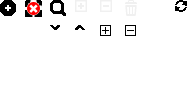
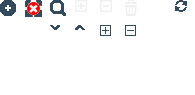
更换主题色调

diff --git a/Public/Admin/css/blackcolor.css b/Public/Admin/css/blackcolor.css
@@ -1,26 +1,26 @@
 body{background:#fff;}
 /***顶部样式***/
 .logo{ color:#666;}
-.header{border-top:4px solid #27282d;border-left:4px solid #27282d;}
-.mainnav li a:hover,.tool li a:hover{border-bottom:solid 4px #27282d;color:#000;}
-.mainnav li a.hover{border-bottom:solid 4px #27282d;color:#27282d;}
+.header{border-top:4px solid #324b5e;border-left:4px solid #324b5e;}
+.mainnav li a:hover,.tool li a:hover{border-bottom:solid 4px #324b5e;color:#000;}
+.mainnav li a.hover{border-bottom:solid 4px #324b5e;color:#324b5e;}
 .tab .tabnav.hover  a{
-border-color: #27282d #e0e0e0 #f6f6f6;
+border-color: #324b5e #e0e0e0 #f6f6f6;
 }
 /******左边样式*****/
-.left{border-left: 4px solid #27282d;}
+.left{border-left: 4px solid #324b5e;}
 .menu .mt a:hover,.menu .mitem a:hover{background:#ededed;}
-.menu .mt a.hover,.menu .mitem a.hover{background:#27282d;color:#fff;}
+.menu .mt a.hover,.menu .mitem a.hover{background:#324b5e;color:#fff;}
 /******右边样式******/
-.right .title a.hover{color:#27282d;}
-.right .title{ color:#27282d;}
+.right .title a.hover{color:#324b5e;}
+.right .title{ color:#324b5e;}
 /****右边表格列表样式*****/
-.content table .th{background:#f6f6f6; color:#27282d;}
-.right .th,.right .th th{ background:#f6f6f6; color:#27282d;}
+.content table .th{background:#f6f6f6; color:#324b5e;}
+.right .th,.right .th th{ background:#f6f6f6; color:#324b5e;}
 tr:hover{ color:#000;}
 /*****分页样式****/
-.page a:hover{background-color:#27282d;}
-.page .current{background-color:#27282d;}
+.page a:hover{background-color:#324b5e;}
+.page .current{background-color:#324b5e;}
 /****按钮颜色*****/
 .btn{background:#4C4C4C;color:#fff;}
 .btn:hover{background-color:#6F6F6F;}
@@ -35,7 +35,7 @@ tr:hover{ color:#000;}
 /**表单颜色***/
 .form-control{transition:all .3s;background-color:#ffffff;border:1px solid #e6e6e6;color:#555555;}
 .form-control:hover{border-color:#dfdfdf;}
-.form-control:focus{border-color:#27282d;}
+.form-control:focus{border-color:#324b5e;}
 /****图片样式*****/
 .menucloseico{background:url('../images/black/ico.png') -170px -118px no-repeat;}
 .menuopenico{background:url('../images/black/ico.png')  -7px 3px no-repeat;}
@@ -44,7 +44,7 @@ tr:hover{ color:#000;}
 .prinfo{background:url('../images/black/ico.png') -205px -210px no-repeat;}
 .exitico{background:url('../images/black/ico.png') -205px -60px no-repeat;}
 .icon-add{background:url('../images/black/bg_icon.png') no-repeat 0 0;}
-.kl-tab-nav:hover, .kl-tab-nav.hover{background:#27282d;}
+.kl-tab-nav:hover, .kl-tab-nav.hover{background:#324b5e;}
 .y {background: url('../images/black/check.gif') 0px -18px no-repeat;}
 .icon-add {background: url('../images/black/bg_icon.png') no-repeat 0 0;}
 .btn-search {background: url('../images/black/bg_icon.png') no-repeat -50px 0;}
